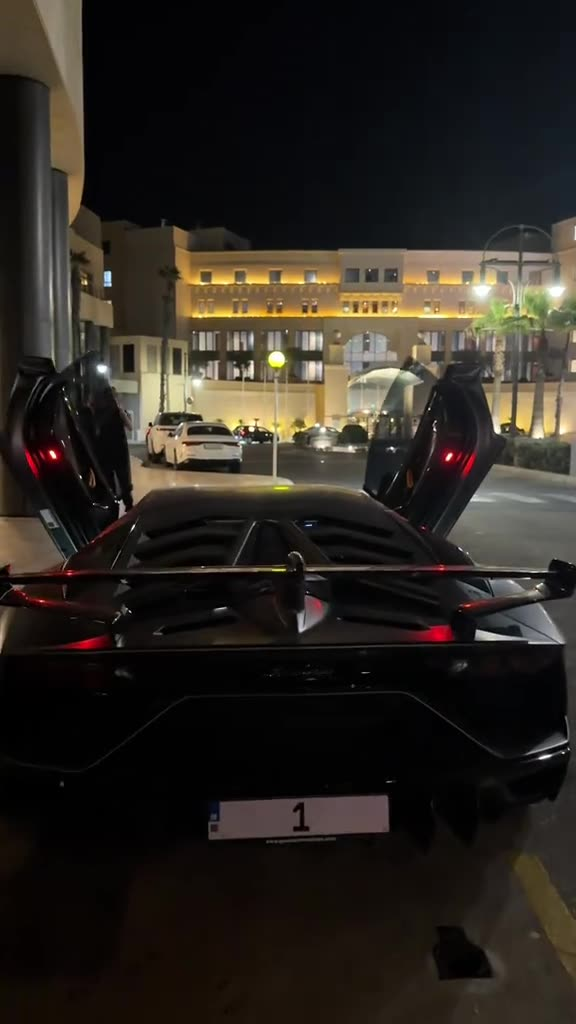
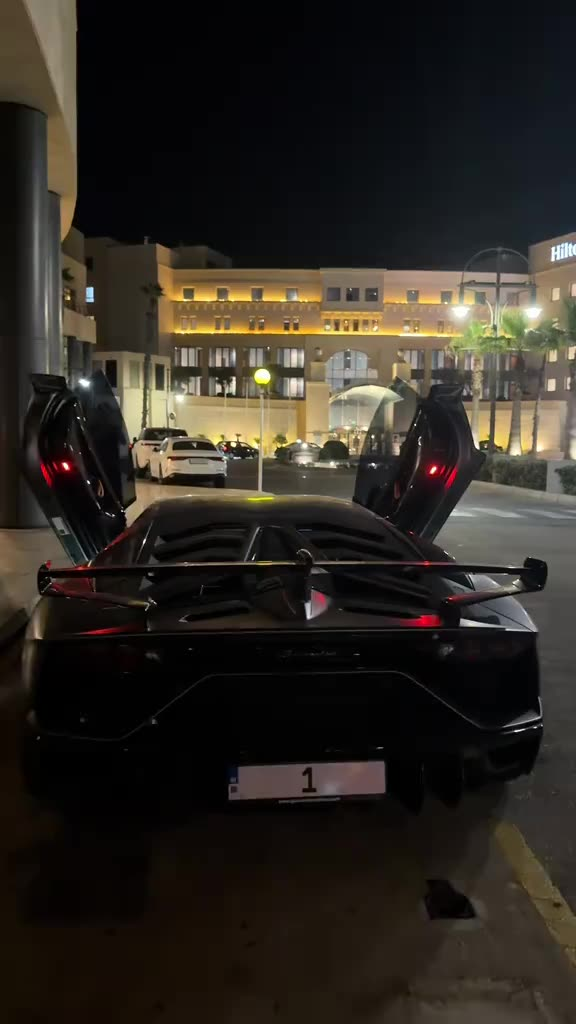
TikTok FYP: scroll que sigue el dedo y 2x al mantener a la derecha (#370)
* TikTok FYP: remove progress knob, clean LIVE icon, contain wide videos, multi hearts, saved toast

Claude-Session: https://claude.ai/code/session_019XkTPpmcsHWjk58MruyJfw

* TikTok FYP: quitar pestaña Merida

Claude-Session: https://claude.ai/code/session_019XkTPpmcsHWjk58MruyJfw

* TikTok FYP: LIVE icon back, real Saved toast, smaller rail icons, fixed comment icon, faster like, pause icon

Claude-Session: https://claude.ai/code/session_019XkTPpmcsHWjk58MruyJfw

* TikTok FYP: real LIVE icon

Claude-Session: https://claude.ai/code/session_019XkTPpmcsHWjk58MruyJfw

* TikTok FYP: rail icons cut from the real reference

Claude-Session: https://claude.ai/code/session_019XkTPpmcsHWjk58MruyJfw

* TikTok FYP: LIVE icon no longer clipped on the left

Claude-Session: https://claude.ai/code/session_019XkTPpmcsHWjk58MruyJfw

* TikTok Balance: hide bottom nav, cover safe area

Claude-Session: https://claude.ai/code/session_019XkTPpmcsHWjk58MruyJfw

* TikTok Balance/Get Coins: fixed full-screen sheets (no white strip on iOS)

Claude-Session: https://claude.ai/code/session_019XkTPpmcsHWjk58MruyJfw

* TikTok: Camera/Create/LIVE screens, 3-2-1 countdown, live with editable views and likes

Claude-Session: https://claude.ai/code/session_019XkTPpmcsHWjk58MruyJfw

* TikTok LIVE: remove Phantom Blade banner

Claude-Session: https://claude.ai/code/session_019XkTPpmcsHWjk58MruyJfw

* TikTok LIVE: tool icons cut from the real reference
[…]

diff --git a/tiktok/index.html b/tiktok/index.html
@@ -224,6 +224,9 @@ body.inst *{transition:none!important}
 .scr{position:absolute;inset:0;overflow:hidden;background:#fff;padding-bottom:calc(169*var(--u))}
 .scr.disc,.scr.inb{overflow-y:auto;scrollbar-width:none}.scr.disc::-webkit-scrollbar,.scr.inb::-webkit-scrollbar{display:none}
 .scr.home{background:#15171d;color:#fff}
+#scrHome{-webkit-touch-callout:none;-webkit-user-select:none;user-select:none}.fpg,.fnx{position:absolute;inset:0;will-change:transform;overflow:hidden}.fnx{pointer-events:none;background:#000}
+.x2pill{position:absolute;left:50%;bottom:calc(70*var(--u));transform:translateX(-50%);height:calc(80*var(--u));padding:0 calc(52*var(--u)) 0 calc(48*var(--u));border-radius:calc(40*var(--u));background:#333333e6;color:#fff;display:flex;align-items:center;gap:calc(22*var(--u));font-size:calc(34*var(--u));font-weight:600;white-space:nowrap;opacity:0;pointer-events:none;transition:opacity .28s ease;z-index:9}.x2pill img{width:calc(22.3*var(--u));height:calc(31.4*var(--u));max-width:none}
+.scr.home.x2 .x2pill{opacity:1}.scr.home .rail,.scr.home .fcap,.scr.home .fsr,.scr.home .fbar,.scr.home .ftop{transition:opacity .28s ease}.scr.home.x2 .rail,.scr.home.x2 .fcap,.scr.home.x2 .fsr,.scr.home.x2 .fbar,.scr.home.x2 .ftop{opacity:0}.app #nav{transition:opacity .28s ease}.app.x2 #nav{opacity:0;pointer-events:none}
 #fvid{position:absolute;inset:0;width:100%;height:100%;object-fit:cover;background:#000}#fvid.wide{object-fit:contain}
 .r4.saved .rico{background:#fbcc14}
 .stoast{position:absolute;left:calc(17*var(--u));right:calc(17*var(--u));bottom:calc(262*var(--u));height:calc(105*var(--u));border-radius:calc(30*var(--u));background:#4b4743eb;color:#fff;display:flex;align-items:center;gap:calc(22*var(--u));padding:0 calc(32*var(--u));font-size:calc(32*var(--u));font-weight:600;opacity:0;pointer-events:none;transition:opacity .15s;z-index:6;backdrop-filter:blur(12px)}.stoast.on{opacity:1}.stoast .ck{width:calc(39*var(--u));height:calc(39*var(--u));border-radius:50%;background:#fff;display:grid;place-items:center}.stoast .ck svg{width:62%;height:62%}.stoast span{margin-left:auto;color:#6aa6f2;font-weight:600;display:flex;align-items:center;gap:calc(14*var(--u))}.stoast span svg{width:calc(17*var(--u));height:calc(26*var(--u))}
@@ -514,10 +517,10 @@ body.inst *{transition:none!important}
   </div></main>
 
   <section class="scr home" id="scrHome" hidden>
+    <div class="fpg" id="fpg">
     <video id="fvid" playsinline loop muted></video>
     <div class="fshade"></div>
     <div class="fhint" id="fhint">Upload a video in the editor and it plays here.</div>
-    <div class="ftop"><img class="live" src="img/live.webp" alt=""><span class="ft d">Drama</span><span class="ft d">Following</span><span class="ft d">Shop</span><span class="ft on">For You<i></i></span><img class="fs" src="img/s_search.webp" alt=""></div>
     <div class="rail">
       <div class="r1"><img class="rav b-av" alt=""><i class="rpl"><svg viewBox="0 0 24 24"><path d="M12 6v12M6 12h12" stroke="#fff" stroke-width="3" stroke-linecap="round"/></svg></i></div>
       <div class="r2"><i class="rico" style="--m:url(img/rl_heart.webp);width:calc(62.7*var(--u));height:calc(55.8*var(--u))"></i><b id="fL"></b></div>
@@ -528,6 +531,10 @@ body.inst *{transition:none!important}
     </div>
     <div class="fcap"><div class="frp" id="frp" hidden><svg viewBox="0 0 24 24"><path d="M4 11V9a3 3 0 0 1 3-3h10l-2.5-2.500M20 13v2a3 3 0 0 1-3 3H7l2.500 2.500" fill="none" stroke="#fff" stroke-width="2.200" stroke-linecap="round" stroke-linejoin="round"/></svg>Repost to followers</div><div class="fn"><span class="b-name"></span><svg class="vbf" viewBox="0 0 24 24"><circle cx="12" cy="12" r="10" fill="#4fd0e2"/><path d="M8.2 11.2l3 3.1 4.8-4.9" stroke="#fff" stroke-width="2.2" fill="none" stroke-linecap="round" stroke-linejoin="round"/></svg><em class="fdt" id="fdt" hidden></em></div><p id="fCap"></p><p class="fseet" id="fSee" hidden>See translation</p><p class="fsnd">&#9835; <span id="fSnd"></span></p></div>
     <div class="fsr"><img src="img/s_search.webp" alt=""><span id="fSr"></span><svg viewBox="0 0 14 14"><path d="M4.500 1.500l5.500 5.500-5.500 5.500" fill="none" stroke="#fff" stroke-width="1.800" stroke-linecap="round" stroke-linejoin="round"/></svg></div><i class="fbar"></i><div class="stoast" id="stoast"><i class="ck"><svg viewBox="0 0 24 24"><path d="M5 12.500l4.500 4.500L19 7.500" fill="none" stroke="#161616" stroke-width="3.200" stroke-linecap="round" stroke-linejoin="round"/></svg></i>Saved<span>Collections<svg viewBox="0 0 17 26"><path d="M3 3l10 10L3 23" fill="none" stroke="#6aa6f2" stroke-width="3.200" stroke-linecap="round" stroke-linejoin="round"/></svg></span></div><div class="pplay" id="pplay"><svg viewBox="0 0 24 24"><path d="M7 3.500v17a1 1 0 0 0 1.500.9l14-8.500a1 1 0 0 0 0-1.800l-14-8.500A1 1 0 0 0 7 3.500z" fill="#fff" transform="translate(-2 0) scale(.95)"/></svg></div>
+  
+    </div>
+    <div class="ftop"><img class="live" src="img/live.webp" alt=""><span class="ft d">Drama</span><span class="ft d">Following</span><span class="ft d">Shop</span><span class="ft on">For You<i></i></span><img class="fs" src="img/s_search.webp" alt=""></div>
+    <div class="x2pill" id="x2pill"><img src="img/x2.webp" alt="">Pull down to lock 2x speed</div>
   </section>
   <section class="scr disc" id="scrDisc" hidden>
     <div class="dtop"><div class="dsb"><img src="img/s_search.webp" alt=""><span>Search</span></div><img class="dsc" src="img/s_scan.webp" alt=""></div>
@@ -887,14 +894,15 @@ var BUILTIN=[{src:'media/vxp1.mp4',poster:'media/vxp1.jpg',user:'Valoraxplore™
 var likedMap={};
 function feedList(){var a=BUILTIN.slice();S.vids.forEach(function(v){if(v.vid)a.push(v)});return a}
 function feedStop(){fvid.pause();fvid.removeAttribute('src');fvid.load();if(furl){URL.revokeObjectURL(furl);furl=null}}
-function metaOf(v){
- var bi=!!v.src,r2=document.querySelector('.r2');
- $('frp').hidden=!(bi&&v.rp!==false);$('fdt').hidden=!bi;$('fSee').hidden=true;document.querySelector('.fsnd').hidden=bi;document.querySelector('.vbf').style.display=bi?'none':'';
- document.querySelector('.rail').classList.toggle('bi',bi);
+function metaOf(v,root){
+ root=root||scr.home;var Q=function(id){return root.querySelector('[id="'+id+'"]')},q=function(sel){return root.querySelector(sel)};
+ var bi=!!v.src,r2=q('.r2');
+ Q('frp').hidden=!(bi&&v.rp!==false);Q('fdt').hidden=!bi;Q('fSee').hidden=true;q('.fsnd').hidden=bi;q('.vbf').style.display=bi?'none':'';
+ q('.rail').classList.toggle('bi',bi);
  if(bi){
-  var F=S.feed||{},sv=src(S.avatar,'avatar');document.querySelector('.fcap .b-name').textContent=v.user||S.name;$('fdt').textContent='· '+(v.date||'10-31');$('fCap').innerHTML=v.cap!=null?v.cap:esc(F.cap||'');
-  $('fL').textContent=v.l||F.l||'';$('fC').textContent=v.c||F.c||'';$('fS').textContent=v.s||F.s||'';$('fH').textContent=v.h||F.h||'';$('fSr').textContent='Search · '+(v.sr||F.sr||'');
-  document.querySelector('.rav').src=v.av||sv;document.querySelector('.r6 img').src=v.disc||sv;
+  var F=S.feed||{},sv=src(S.avatar,'avatar');q('.fcap .b-name').textContent=v.user||S.name;Q('fdt').textContent='· '+(v.date||'10-31');Q('fCap').innerHTML=v.cap!=null?v.cap:esc(F.cap||'');
+  Q('fL').textContent=v.l||F.l||'';Q('fC').textContent=v.c||F.c||'';Q('fS').textContent=v.s||F.s||'';Q('fH').textContent=v.h||F.h||'';Q('fSr').textContent='Search · '+(v.sr||F.sr||'');
+  q('.rav').src=v.av||sv;q('.r6 img').src=v.disc||sv;
   r2.classList.toggle('liked',!!likedMap[v.src]);
  }else{render();r2.classList.remove('liked')}
 }
@@ -921,8 +929,36 @@ function go(n){cur=n;Object.keys(scr).forEach(function(k){scr[k].hidden=k!==n});
 $('nav').addEventListener('click',function(e){var b=e.target.closest('button[data-s]');if(!b||b.dataset.s==='mk')return;go(b.dataset.s)});
 var fy=0,lastTap=0,lastX=0,lastY=0;
 function tapAt(x,y){var t=Date.now();if(t-lastTap<320&&Math.hypot(x-lastX,y-lastY)<60){lastTap=t;lastX=x;lastY=y;var r=scr.home.getBoundingClientRect();likeIt(true);bigHeart(x-r.left,y-r.top);return true}lastTap=t;lastX=x;lastY=y;return false}
-scr.home.addEventListener('touchstart',function(e){fy=e.touches[0].clientY},{passive:true});
-scr.home.addEventListener('touchend',function(e){var d=e.changedTouches[0].clientY-fy;if(Math.abs(d)>70){fIdx+=d<0?1:-1;feedPlay()}else{if(e.target.closest('.rail'))return;var tx=e.changedTouches[0].clientX,ty=e.changedTouches[0].clientY;if(!tapAt(tx,ty)){setTimeout(function(){if(lastTap&&Date.now()-lastTap>=300){if(fvid.paused)fvid.play();else fvid.pause()}},310)}}});
+var fpg=$('fpg'),tY=0,tX=0,tT=0,tMoved=false,drag=null,x2=false,holdT=null,swallow=false;
+function qNeighbor(dir){var l=feedList();if(l.length<2)return null;var i=((fIdx+dir)%l.length+l.length)%l.length,v=l[i];
+ var n=fpg.cloneNode(true);n.className='fnx';n.removeAttribute('id');metaOf(v,n);
+ var vd=n.querySelector('video');vd.removeAttribute('src');vd.muted=true;vd.poster=v.poster||'';vd.removeAttribute('autoplay');
+ var pp=n.querySelector('.pplay');if(pp)pp.classList.remove('on');var sp=n.querySelector('.stoast');if(sp)sp.classList.remove('on');
+ qa('#scrHome',function(){});[].forEach.call(n.querySelectorAll('[id]'),function(e){e.removeAttribute('id')});
+ scr.home.insertBefore(n,scr.home.querySelector('.ftop'));return n}
+function setX(n,y,anim){n.style.transition=anim||'none';n.style.transform=y?'translateY('+y+'px)':''}
+function endX2(){if(!x2)return;x2=false;fvid.playbackRate=1;scr.home.classList.remove('x2');app.classList.remove('x2')}
+scr.home.addEventListener('touchstart',function(e){if(e.touches.length>1)return;var t=e.touches[0],r=scr.home.getBoundingClientRect();tY=t.clientY;tX=t.clientX;tT=Date.now();tMoved=false;swallow=false;
+ clearTimeout(holdT);if(!drag&&t.clientX-r.left>r.width*.5&&!e.target.closest('.rail')){holdT=setTimeout(function(){if(tMoved||drag)return;x2=true;swallow=true;fvid.playbackRate=2;scr.home.classList.add('x2');app.classList.add('x2');if(navigator.vibrate)try{navigator.vibrate(8)}catch(_){}},380)}},{passive:true});
+scr.home.addEventListener('touchmove',function(e){var t=e.touches[0],dy=t.clientY-tY,dx=t.clientX-tX;if(Math.abs(dy)>10||Math.abs(dx)>10)tMoved=true;
+ if(x2){if(e.cancelable)e.preventDefault();return}
+ if(!drag&&Math.abs(dy)>8&&Math.abs(dy)>Math.abs(dx)){clearTimeout(holdT);drag={dir:0,n:null}}
+ if(!drag)return;if(e.cancelable)e.preventDefault();
+ var dir=dy<0?1:-1,H=scr.home.clientHeight;
+ if(dir!==drag.dir){if(drag.n)drag.n.remove();drag.dir=dir;drag.n=qNeighbor(dir)}
+ var off=drag.n?dy:dy*.3;setX(fpg,off);if(drag.n)setX(drag.n,dir>0?H+dy:-H+dy)},{passive:false});
+function finish(e){clearTimeout(holdT);
+ if(x2){endX2();swallow=true;return}
+ if(drag){var d=drag;drag=null;swallow=true;var t=(e.changedTouches&&e.changedTouches[0])||{clientY:tY},dy=t.clientY-tY,H=scr.home.clientHeight,dt=Math.max(1,Date.now()-tT),v=Math.abs(dy)/dt;
+  var commit=d.n&&(Math.abs(dy)>H*.16||(v>.45&&Math.abs(dy)>28));var tr='transform .26s cubic-bezier(.22,.8,.28,1)';
+  if(commit){setX(fpg,-d.dir*H,tr);setX(d.n,0,tr);setTimeout(function(){fIdx+=d.dir;var one=function(){fvid.removeEventListener('playing',one);setTimeout(function(){d.n.remove()},60)};fvid.addEventListener('playing',one);setTimeout(function(){fvid.removeEventListener('playing',one);if(d.n.parentNode)d.n.remove()},900);setX(fpg,0);feedPlay()},270)}
+  else{setX(fpg,0,tr);if(d.n)setX(d.n,d.dir>0?H:-H,tr);setTimeout(function(){if(d.n)d.n.remove();setX(fpg,0)},270)}
+  return}
+ }
+scr.home.addEventListener('touchend',function(e){var wasX=x2,wasD=!!drag;finish(e);if(wasX||wasD||swallow){swallow=false;return}
+ if(e.target.closest('.rail'))return;var tx=e.changedTouches[0].clientX,ty=e.changedTouches[0].clientY;if(Math.abs(ty-tY)>10||Math.abs(tx-tX)>10)return;
+ if(!tapAt(tx,ty)){setTimeout(function(){if(lastTap&&Date.now()-lastTap>=300){if(fvid.paused)fvid.play();else fvid.pause()}},310)}});
+scr.home.addEventListener('touchcancel',function(e){clearTimeout(holdT);endX2();if(drag){if(drag.n)drag.n.remove();drag=null;setX(fpg,0)}});
 scr.home.addEventListener('click',function(e){if(e.target.closest('.r2')){likeIt();return}if(e.detail&&!('ontouchstart' in window)){if(e.target.closest('.rail'))return;if(e.detail>=2){tapAt(e.clientX,e.clientY);tapAt(e.clientX,e.clientY);return}if(fvid.paused)fvid.play();else fvid.pause()}});
 document.querySelector('.r2').addEventListener('touchend',function(e){e.stopPropagation();e.preventDefault();likeIt()});
 
